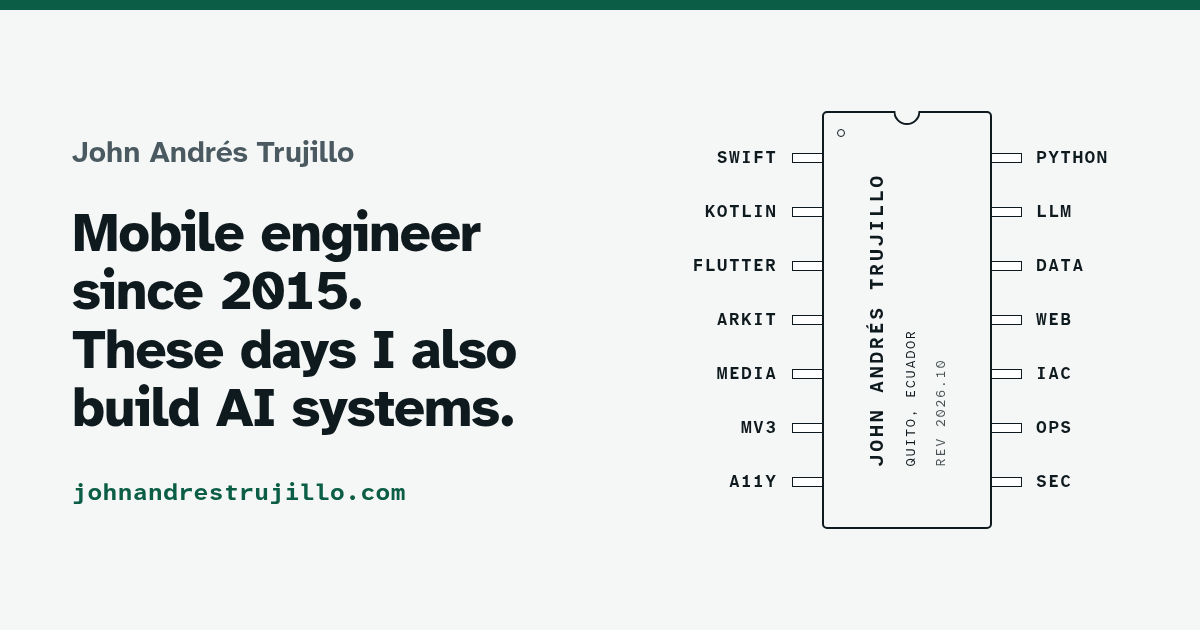
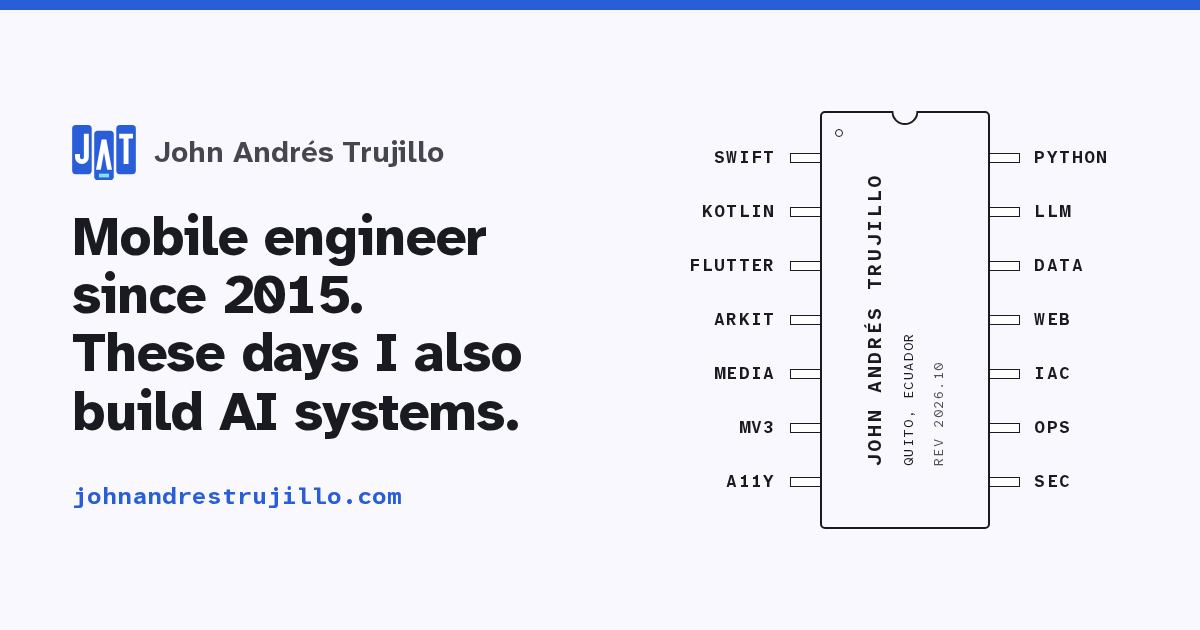
JOHN-15: JAT mark and a cobalt theme built from it
The masthead chip becomes the JAT mark: three cobalt slices with white letters,
the middle one set lower and the A's crossbar laid at its foot in cyan. One
colour set reads on light and dark grounds alike. Once per visit it calibrates
into place (the middle slice steps down twice, then the bar is drawn), in CSS
on the inline SVG, and never with reduced motion.

The whole site follows the mark: neutrals regenerated with Material Color
Utilities from the cobalt seed (same Material 3 roles as before), links and
primary actions in cobalt on light and cyan on dark, chip pads and glow in cyan.
Status colours (sent, error) stay as they were. Favicons, the touch icon and the
share cards are redrawn with the mark. 46 of 48 measured colour pairs pass; the
two that do not are the mark on dark cards, where it is not used.

diff --git a/public/assets/css/site.css b/public/assets/css/site.css
@@ -29,20 +29,23 @@
 /* ---------- Tokens ---------- */
 
 :root {
-  --paper: #F5FBF5;
+  --paper: #FAF8FF;
   --surface: #FFFFFF;
-  --surface-high: #E4EAE4;
-  --ink: #171D1A;
-  --graphite: #404944;
-  --rule: #BFC9C2;
-  --field: #707973;
-  --accent: #0B5E45;
-  --accent-ink: #F5F7F6;
-  --pad: #A8811F;
-  --lit: #D9B45A;
-  --lit-ink: #0F1A1F;
-  --package: #1B2327;
-  --silk: #EEF2EE;
+  --surface-high: #E8E7EF;
+  --ink: #1A1B21;
+  --graphite: #45464F;
+  --rule: #C5C6D0;
+  --field: #757680;
+  --accent: #2A5ED9;
+  --accent-ink: #FFFFFF;
+  --pad: #006972;
+  --mark-slice: #2A5ED9;
+  --mark-letter: #FFFFFF;
+  --mark-bar: #7FE3F0;
+  --lit: #7FE3F0;
+  --lit-ink: #001F23;
+  --package: #121729;
+  --silk: #EEF0FA;
   --ok-bg: #E3F1EA;
   --ok-ink: #0B5E45;
   --err: #A3241B;
@@ -74,19 +77,19 @@
 
 @media (prefers-color-scheme: dark) {
   :root:not([data-theme="light"]) {
-    --paper: #02170F;
-    --surface: #0D241B;
-    --surface-high: #182E25;
-    --ink: #CFE9DA;
-    --graphite: #ACCEBD;
-    --rule: #2E4D40;
-    --field: #779888;
-    --accent: #E2BC5E;
-    --accent-ink: #0A2018;
-    --pad: #D6B04F;
-    --lit: #F1CE6E;
-    --lit-ink: #0A2018;
-    --package: #0F1417;
+    --paper: #0D1323;
+    --surface: #1A1F30;
+    --surface-high: #24293B;
+    --ink: #DDE1F9;
+    --graphite: #BFC5E3;
+    --rule: #3F465F;
+    --field: #8990AC;
+    --accent: #7FE3F0;
+    --accent-ink: #001F23;
+    --pad: #71D5E2;
+    --lit: #8EF2FF;
+    --lit-ink: #001F23;
+    --package: #070B16;
     --ok-bg: #123A2C;
     --ok-ink: #BFE8D2;
     --err: #FF9A8F;
@@ -102,19 +105,19 @@
 }
 
 :root[data-theme="dark"] {
-  --paper: #02170F;
-  --surface: #0D241B;
-  --surface-high: #182E25;
-  --ink: #CFE9DA;
-  --graphite: #ACCEBD;
-  --rule: #2E4D40;
-  --field: #779888;
-  --accent: #E2BC5E;
-  --accent-ink: #0A2018;
-  --pad: #D6B04F;
-  --lit: #F1CE6E;
-  --lit-ink: #0A2018;
-  --package: #0F1417;
+  --paper: #0D1323;
+  --surface: #1A1F30;
+  --surface-high: #24293B;
+  --ink: #DDE1F9;
+  --graphite: #BFC5E3;
+  --rule: #3F465F;
+  --field: #8990AC;
+  --accent: #7FE3F0;
+  --accent-ink: #001F23;
+  --pad: #71D5E2;
+  --lit: #8EF2FF;
+  --lit-ink: #001F23;
+  --package: #070B16;
   --ok-bg: #123A2C;
   --ok-ink: #BFE8D2;
   --err: #FF9A8F;
@@ -331,18 +334,53 @@ svg {
   text-decoration: none;
 }
 
-.brand__chip {
-  width: 1rem;
-  height: 1.35rem;
-  fill: currentColor;
+/* The JAT mark (templates/partials/mark.php). One colour set for both themes: it was measured on light and dark grounds. */
+.mark {
+  width: 1.75rem;
+  height: 1.5rem;
+  flex: none;
+  overflow: visible;
 }
 
-.brand__pins {
-  fill: var(--pad);
+.mark__slice {
+  fill: var(--mark-slice);
 }
 
-.brand__notch {
-  fill: var(--paper);
+.mark__letter {
+  fill: var(--mark-letter);
+}
+
+.mark__bar {
+  fill: var(--mark-bar);
+  transform-box: fill-box;
+  transform-origin: center;
+}
+
+/* Calibration intro, once per visit (motion.js): the middle slice steps down twice, then the bar is drawn from its
+   centre. Every move decelerates into place; nothing falls or bounces. */
+@media (prefers-reduced-motion: no-preference) {
+  .mark.is-intro .mark__mid {
+    animation: mark-calibrate 1.7s both;
+  }
+
+  .mark.is-intro .mark__bar {
+    animation: mark-gauge 1.7s both;
+  }
+}
+
+@keyframes mark-calibrate {
+  0% { translate: 0 -4px; animation-timing-function: cubic-bezier(0.65, 0, 0.35, 1); }
+  16% { translate: 0 -2px; }
+  28% { translate: 0 -2px; animation-timing-function: cubic-bezier(0.65, 0, 0.35, 1); }
+  44%,
+  100% { translate: 0 0; }
+}
+
+@keyframes mark-gauge {
+  0%,
+  52% { scale: 0 1; animation-timing-function: cubic-bezier(0.22, 1, 0.36, 1); }
+  80%,
+  100% { scale: 1 1; }
 }
 
 .masthead__nav {
@@ -2233,6 +2271,9 @@ main [id] {
     --graphite: #333333;
     --rule: #BBBBBB;
     --accent: #000000;
+    --mark-slice: #000000;
+    --mark-letter: #FFFFFF;
+    --mark-bar: #FFFFFF;
   }
 
   .stage-banner,

diff --git a/public/assets/js/motion.js b/public/assets/js/motion.js
@@ -1,6 +1,7 @@
 // Motion layer, on top of a page that already works without it: controls that lean toward the pointer, the chip
 // that tilts and powers the pins the pointer comes near, a signal along the evidence panel when a pin is picked,
-// the masthead trace that follows the section on screen, and on phones a masthead that steps aside while reading.
+// the masthead trace that follows the section on screen, the mark's calibration intro, and on phones a masthead that
+// steps aside while reading.
 // Pointer effects run only with a mouse or trackpad and never with reduced motion. Nothing here adds content; screen readers get the same page.
 (() => {
   'use strict';
@@ -161,6 +162,24 @@
     sections.forEach((section) => watcher.observe(section));
     window.addEventListener('resize', place, { passive: true });
     if (document.fonts && document.fonts.ready) document.fonts.ready.then(place);
+  }
+
+  // ---- The mark calibrates once per visit: the middle slice steps into place, then the bar is drawn ----
+  const mark = document.querySelector('.brand .mark');
+  if (mark && !reducedMotion.matches) {
+    let seen = false;
+    try {
+      seen = sessionStorage.getItem('mark-intro') === '1';
+      sessionStorage.setItem('mark-intro', '1');
+    } catch (error) {
+      // storage blocked: play it, it is short
+    }
+    if (!seen) {
+      mark.classList.add('is-intro');
+      mark.addEventListener('animationend', (event) => {
+        if (event.target.classList.contains('mark__bar')) mark.classList.remove('is-intro');
+      });
+    }
   }
 
   // ---- Phones: the masthead steps aside while reading down and comes back on the first scroll up ----

diff --git a/public/assets/css/og.css b/public/assets/css/og.css
@@ -14,10 +14,18 @@
 }
 
 .og__name {
+  display: flex;
+  align-items: center;
+  gap: 18px;
   margin: 0 0 28px;
   color: var(--graphite);
   font-size: 30px;
   font-weight: 700;
+}
+
+.og__name .mark {
+  width: 64px;
+  height: 55px;
 }
 
 .og__lines {

diff --git a/templates/layout.php b/templates/layout.php
@@ -30,8 +30,8 @@ $other = $c['ui']['other_lang'];
 <link rel="alternate" hreflang="es" href="<?= $e($urls['es']) ?>">
 <link rel="alternate" hreflang="x-default" href="<?= $e($urls['en']) ?>">
 <meta name="color-scheme" content="light dark">
-<meta name="theme-color" content="#F5FBF5" media="(prefers-color-scheme: light)">
-<meta name="theme-color" content="#02170F" media="(prefers-color-scheme: dark)">
+<meta name="theme-color" content="#FAF8FF" media="(prefers-color-scheme: light)">
+<meta name="theme-color" content="#0D1323" media="(prefers-color-scheme: dark)">
 <meta property="og:type" content="<?= $e($og_type) ?>">
 <meta property="og:title" content="<?= $e($page_title) ?>">
 <meta property="og:description" content="<?= $e($page_description) ?>">
@@ -66,7 +66,7 @@ $other = $c['ui']['other_lang'];
 <header class="masthead">
   <div class="masthead__inner">
     <a class="brand" href="<?= $e($lang === 'es' ? '/es/' : '/') ?>">
-      <svg class="brand__chip" viewBox="0 0 24 32" aria-hidden="true" focusable="false"><rect x="5" y="2" width="14" height="28" rx="2"/><path class="brand__notch" d="M9.5 2a2.5 2.5 0 0 0 5 0"/><g class="brand__pins"><rect x="1" y="6" width="4" height="2"/><rect x="1" y="12" width="4" height="2"/><rect x="1" y="18" width="4" height="2"/><rect x="1" y="24" width="4" height="2"/><rect x="19" y="6" width="4" height="2"/><rect x="19" y="12" width="4" height="2"/><rect x="19" y="18" width="4" height="2"/><rect x="19" y="24" width="4" height="2"/></g></svg>
+      <?= $view->partial('mark', []) ?>
       <span class="brand__name"><?= $e($c['person']['name']) ?></span>
     </a>
     <nav class="masthead__nav" aria-label="<?= $e($c['ui']['nav_label']) ?>">

diff --git a/templates/partials/mark.php b/templates/partials/mark.php
@@ -1,0 +1,7 @@
+<?php
+/**
+ * The JAT mark: three cobalt slices with a white letter on each, the middle slice set lower and the A's crossbar
+ * laid at its foot in cyan. Drawn on a 48-unit grid; one colour set reads on light and dark grounds alike
+ * (--mark-slice, --mark-letter, --mark-bar). motion.js plays the calibration intro once per visit.
+ */
+?><svg class="mark" viewBox="2 5 44 38" aria-hidden="true" focusable="false"><path class="mark__slice" d="M4.5 5H13A2.5 2.5 0 0 1 15.5 7.5V36.5A2.5 2.5 0 0 1 13 39H4.5A2.5 2.5 0 0 1 2 36.5V7.5A2.5 2.5 0 0 1 4.5 5Z"/><path class="mark__letter" d="M10.1 11H13.5V27.25A4.75 4.75 0 0 1 4 27.25V25.05H7.4V27.25A1.35 1.35 0 0 0 10.1 27.25Z"/><g class="mark__mid"><path class="mark__slice" d="M19.75 9H28.25A2.5 2.5 0 0 1 30.75 11.5V40.5A2.5 2.5 0 0 1 28.25 43H19.75A2.5 2.5 0 0 1 17.25 40.5V11.5A2.5 2.5 0 0 1 19.75 9Z"/><path class="mark__letter" d="M18.5 36L22.35 15L25.65 15L29.5 36L26.2 36L24 24L21.8 36Z"/><rect class="mark__bar" x="20.5" y="38.6" width="7" height="2.6"/></g><path class="mark__slice" d="M35 5H43.5A2.5 2.5 0 0 1 46 7.5V36.5A2.5 2.5 0 0 1 43.5 39H35A2.5 2.5 0 0 1 32.5 36.5V7.5A2.5 2.5 0 0 1 35 5Z"/><path class="mark__letter" d="M34.5 11L44 11L44 14.4L40.95 14.4L40.95 32L37.55 32L37.55 14.4L34.5 14.4Z"/></svg>

diff --git a/templates/og.php b/templates/og.php
@@ -21,7 +21,7 @@
 </head>
 <body class="og">
   <div class="og__text">
-    <p class="og__name"><?= $e($c['person']['name']) ?></p>
+    <p class="og__name"><?= $view->partial('mark', []) ?><?= $e($c['person']['name']) ?></p>
     <p class="og__lines">
       <?php foreach ($c['hero']['title_lines'] as $line): ?>
       <span class="hero__line"><?= $m($line) ?></span>
